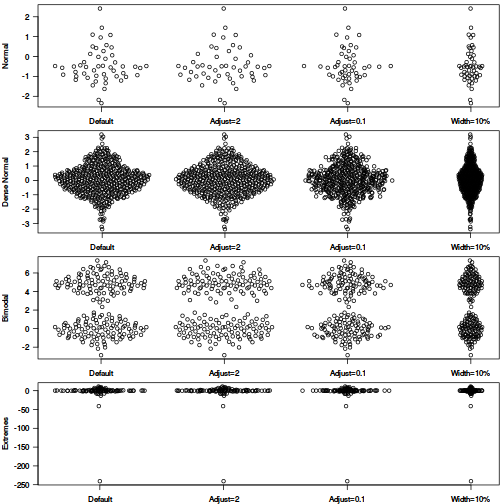
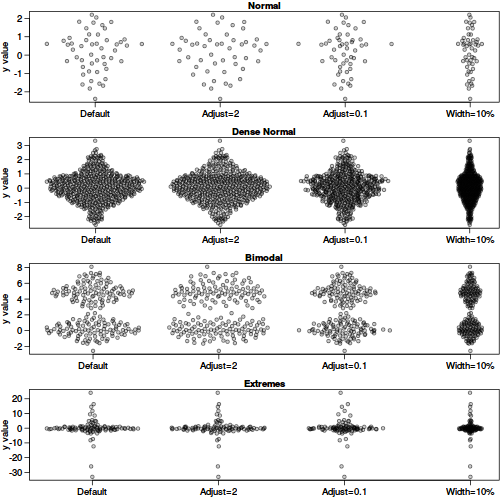
Adjust readme figure

Changed region(s): [[0.0, 0.0, 1.0, 1.0]]

diff --git a/README.md b/README.md
@@ -22,12 +22,12 @@ We use the provided function `offsetX` to generate the x-offsets for plotting.
 ```r
 library(violinPointR)
 # Generate data
-set.seed(1234)
+set.seed(12345)
 dat <- list(rnorm(50), rnorm(500), c(rnorm(100), rnorm(100,5)), rcauchy(100))
 names(dat) <- c("Normal", "Dense Normal", "Bimodal", "Extremes")
 
 # Plot distributions
-par(mfrow=c(4,1), mar=c(2,4, 0.5, 0.5))
+par(mfrow=c(4,1), mar=c(2.5,3.1, 1.2, 0.5),mgp=c(2.1,.75,0),cex.axis=1.2,cex.lab=1.2,cex.main=1.2)
 sapply(names(dat),function(label) {
   y<-dat[[label]]
   ids <- rep(1:4, each=length(y))
@@ -37,7 +37,7 @@ sapply(names(dat),function(label) {
     offsetX(y, adjust=0.1),  # Tighter fit
     offsetX(y, width=0.1))   # Less wide
 
-  plot(offsets + ids, rep(y, 4), ylab=label, xlab='', xaxt='n', pch=21, las=1)
+  plot(offsets + ids, rep(y, 4), ylab='y value', xlab='', xaxt='n', pch=21,col='#00000099',bg='#00000033',las=1,main=label)
   axis(1, 1:4, c("Default", "Adjust=2", "Adjust=0.1", "Width=10%"))
 })
 ```
